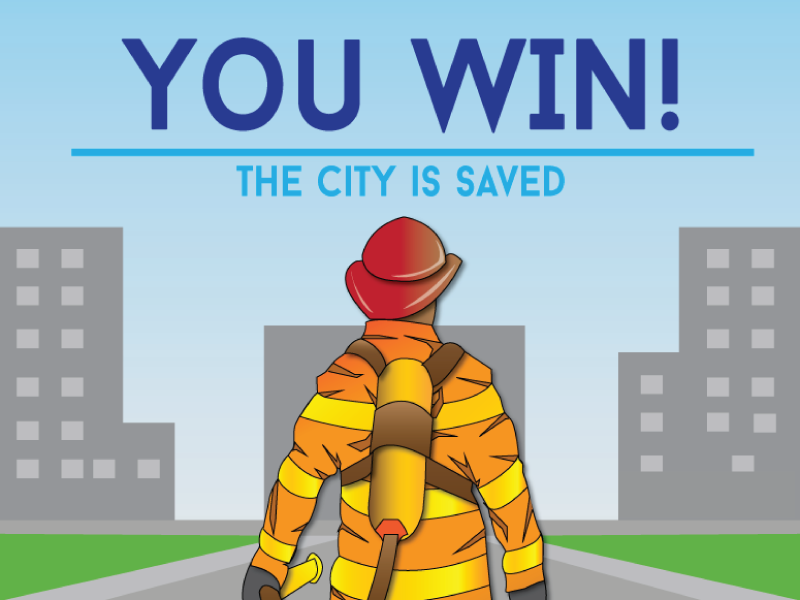
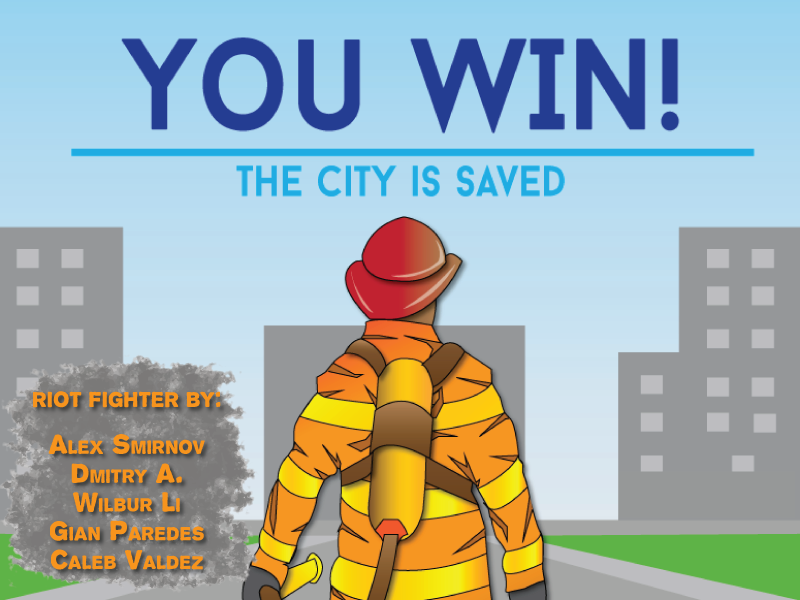
added credits to game over screen/edited button

Changed region(s): [[0.0, 0.57, 0.3125, 0.99]]

diff --git a/js/states/stWin.js b/js/states/stWin.js
@@ -23,9 +23,9 @@ stWin.prototype = {
             this.bg_music.volume = 0;
         }
         
-        this.titleButton = this.game.add.button(130, this.game.height - 75, 'TitleScreenButtons', this.titleScreen, this.game,'titleScreenButtonOver', 'titleScreenButton');
+        this.titleButton = this.game.add.button(this.game.width - 125, this.game.height - 100, 'TitleScreenButtons', this.titleScreen, this.game,'titleScreenButtonOver', 'titleScreenButton');
         this.titleButton.anchor.set(0.5);
-        this.titleButton.scale.setTo(0.8);
+        this.titleButton.scale.setTo(0.85);
         this.titleButton.onInputUp.add(this.stopSound, this);
         
 
